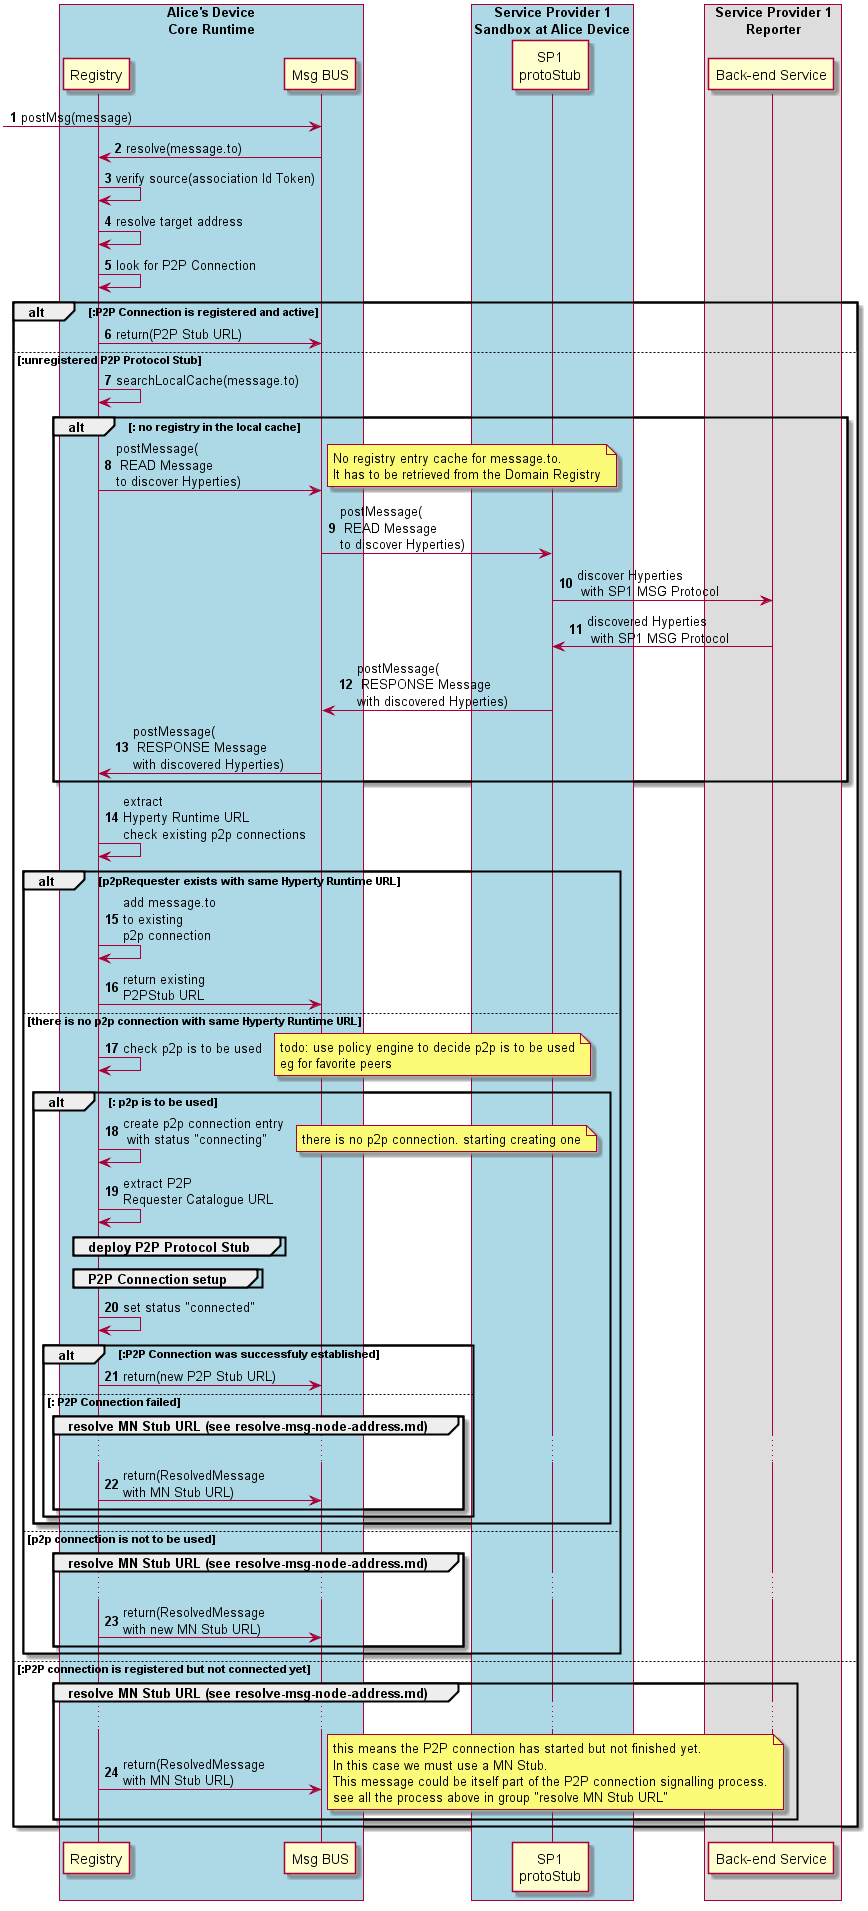
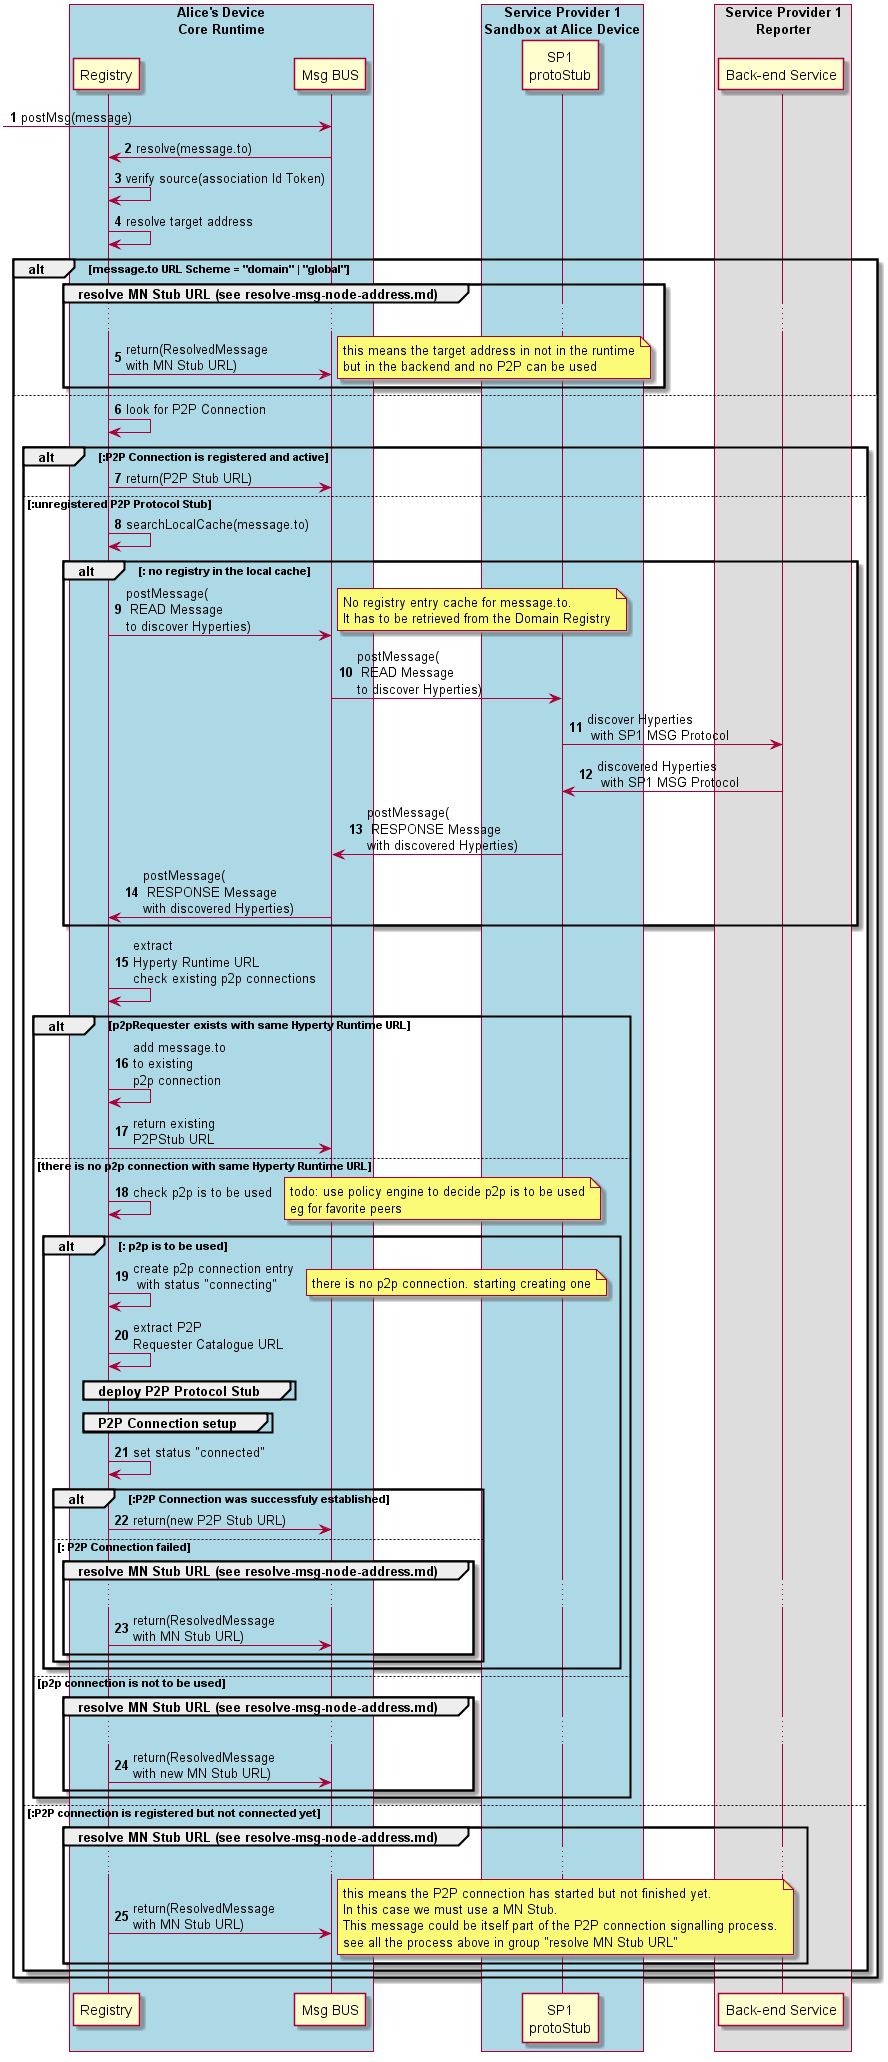
deploy runtime, deploy runtime and routing address resolution updated according to feedback from implementation

Changed region(s): [[0.0, 0.0, 0.9954, 1.0], [0.1866, 0.0, 0.3111, 0.0309], [0.6221, 0.7718, 0.6532, 0.8336]]

diff --git a/dynamic-view/basics/deploy-protostub.md b/dynamic-view/basics/deploy-protostub.md
@@ -4,23 +4,25 @@ The main data flows to support the deployment of protocol stubs required to conn
 
 ![Figure @runtime-deploy-protostub: Deploy Protocol Stub](deploy-protostub.png)
 
-Steps 1-3: Several components might initiate de Protocol Stub deploy that can come from the Core Runtime Sandbox (e.g. Runtime Registry) or from other sandbox (e.g. Application). The Protocol Stub deployment may be triggered by the deployment of an Hyperty or by some attempt from a local Hyperty to communicate with a remote Hyperty running in the domain served by the Protocol Stub. In this former case the Runtime Registry would take the initiative to start the Protocol Stub deploy. The Runtime UA only downloads and deploys requested Protocol Stub after checking in the Registry that there is no Protocol Stub available in the Hyperty Runtime. **Phase 2 New!** For the deployment of P2P Requester Stubs, the "p2pconfig" parameter should provided containing the remote [P2P Handler Stub](../../messaging-framework/p2p-msg-delivery,md) instance URL and the "local MN StubURL" connecting to the MN from the remote runtime that will be used for the P2P setup signalling.
+Steps 1: Several components might initiate de Protocol Stub deploy that can come from the Core Runtime Sandbox (e.g. Runtime Registry) or from other sandbox (e.g. Application). The Protocol Stub deployment may be triggered by the deployment of an Hyperty or by some attempt from a local Hyperty to communicate with a remote Hyperty running in the domain served by the Protocol Stub. In this former case the Runtime Registry would take the initiative to start the Protocol Stub deploy. **Phase 2 New!** For the deployment of P2P Requester Stubs, the "p2pconfig" parameter contains the remote [P2P Handler Stub](../../messaging-framework/p2p-msg-delivery,md) instance URL and the "local MN StubURL" connecting to the MN from the remote runtime that will be used for the P2P setup signalling. For the deployment of P2P Handler Stubs, the "p2pconfig" parameter contains "isHandlerStub = true".
 
-Steps 4 - 5: the Runtime UA is able to derive the URL to download the Protocol Stub descriptor from the domain URL (sp-domain), since it is a well known URI defined in the reTHINK Architecture Interfaces [15].
+Steps 6 - 7: The Runtime UA only downloads and deploys requested Protocol Stub after checking in the Registry that there is no Protocol Stub available in the Hyperty Runtime. **Phase 2 New!** it checks the p2pConfig to look for the type of protostubb to be loaded and check with the runtime registry that it is not yet deployed in the Runtime.
 
-Steps 6-7: The Runtime UA downloads the protostub source code, extracting the protostubDownloadURL from the protostub descriptor.
+Steps 8 - 9: the Runtime UA is able to derive the URL to download the Protocol Stub descriptor from the domain URL (sp-domain), since it is a well known URI defined in the reTHINK Architecture Interfaces [15].
 
-Steps 8 - 11: the new Protocol Stub is registered in the Runtime Registry, which allocates and returns the runtime address (RuntimeURL) for the new runtime component. Since the protostub only has to be reached by runtime components, the protostub URL can be generated by the Runtime Registry ensuring the URL is unique in the Runtime namespace. Optionaly, the protostub is registered in the remote Domain Registry. In addition, the runtime Registry requests the runtime BUS to add its listener to receive events about the Protocol Stub status.
+Steps 10-11: The Runtime UA downloads the protostub source code, extracting the protostubDownloadURL from the protostub descriptor.
 
-Steps 12-15: The Runtime UA instantiates a new sandbox through the Sandbox interface which is registered in the Registry. **Phase 2 New!** The `capabilities` input parameter (see RuntimeSandboxCapabilities type in [Runtime Descriptor](../../datamodel/core/hyperty-catalogue/readme.md#hyperty-runtime-descriptor)) is used to indicate capabilities required eg window capabilities.
+Steps 12-16: The Runtime UA requests the Registry about existing sandbox do be used. If no appropriate sandbox is available, it instantiates a new sandbox through the Sandbox interface which is registered in the Registry. **Phase 2 New!** The `capabilities` input parameter (see RuntimeSandboxCapabilities type in [Runtime Descriptor](../../datamodel/core/hyperty-catalogue/readme.md#hyperty-runtime-descriptor)) is used to indicate capabilities required eg window capabilities.
 
-Steps 16-18: The Runtime UA requests the new sandbox to instantiate the protostub source code, extracting the configuration data from the protostub descriptor. (**Phase 2 New!**) For P2P Requester Stubs, the p2pConfig json data is concatonated with the protostub descriptor configuration json data.
+Steps 17 - 23: the new Protocol Stub is registered in the Runtime Registry, which allocates and returns the runtime address (RuntimeURL) for the new runtime component. Since the protostub only has to be reached by runtime components, the protostub URL can be generated by the Runtime Registry ensuring the URL is unique in the Runtime namespace. Optionaly, the protostub is registered in the remote Domain Registry. In addition, the runtime Registry requests the runtime BUS to add its listener to receive events about the Protocol Stub status.
 
-Steps 19-20: The Runtime UA finishes the Protocol Stub deploy by adding in the runtime BUS the protostub listener to receive messages from the runtime.
+Steps 24-26: The Runtime UA requests the new sandbox to instantiate the protostub source code, extracting the configuration data from the protostub descriptor. (**Phase 2 New!**) For P2P Requester Stubs, the p2pConfig json data is concatonated with the protostub descriptor configuration json data.
+
+Steps 27-28: The Runtime UA finishes the Protocol Stub deploy by adding in the runtime BUS the protostub listener to receive messages from the runtime.
 
 Protocol stubs are connected by using credentials handled by the Core Runtime Identity Module which are detailed in the [Domain Login](../identity-management/domain-login.md).
 
-Steps 21 - 22: Protocol Stub publishes its status (including events about when it is connected or disconnected) in its resource status. Components registered on the Protocol Stub status resources, like the Registry, are notified about the new protocol status.
+Steps 29 - 30: Protocol Stub publishes its status (including events about when it is connected or disconnected) in its resource status. Components registered on the Protocol Stub status resources, like the Registry, are notified about the new protocol status.
 
 Message to publish Protocol Stub Status
 

diff --git a/dynamic-view/basics/deploy-runtime.md b/dynamic-view/basics/deploy-runtime.md
@@ -15,4 +15,4 @@ Steps 8 - 17: the Runtime User Agent handles the deployment and initialisation o
 **Phase 2 New!:** When the Sync Manager is initialised, it reactivates all cached subscriptions (note: Similar to data sync subscription requests performed by Observer but only local runtime listeners are added since MN subscriptions were not removed when Hyperties were disconnected). In this way updates performed on reporters will be immediatly propagated to authorised observers.
 
 **Phase 2 New!**
-Steps 18 - 24: in case the Runtime User Agent detects the capability to support [P2P Connections](https://github.com/reTHINK-project/specs/tree/master/messaging-framework#peer-to-peer-message-delivery) (eg if it supports WebRTC Datachannel) it performs the deployment of the P2P Handler Stub (see the [Protostub deployment procedure](deploy-protostub.md)). As soon as the P2P Handler stub is deployed, the path to receive P2P Data Connection creation requests from P2P Requester Stubs is set in the MN with the P2P Stub URL by sending a [Subscription Request message to Message Node Subscription Management functionality](../../messages/p2p-connection-messages.md#add-p2p-handler-path).
+Steps 18 - 26: in case the Runtime User Agent detects the capability to support [P2P Connections](https://github.com/reTHINK-project/specs/tree/master/messaging-framework#peer-to-peer-message-delivery) (eg if it supports WebRTC Datachannel) it performs the deployment of the P2P Handler Stub (see the [Protostub deployment procedure](deploy-protostub.md)). As soon as the P2P Handler stub is deployed, the path to receive P2P Data Connection creation requests from P2P Requester Stubs is set in the MN with the P2P Stub URL by sending a [Subscription Request message to Message Node Subscription Management functionality](../../messages/p2p-connection-messages.md#add-p2p-handler-path).
